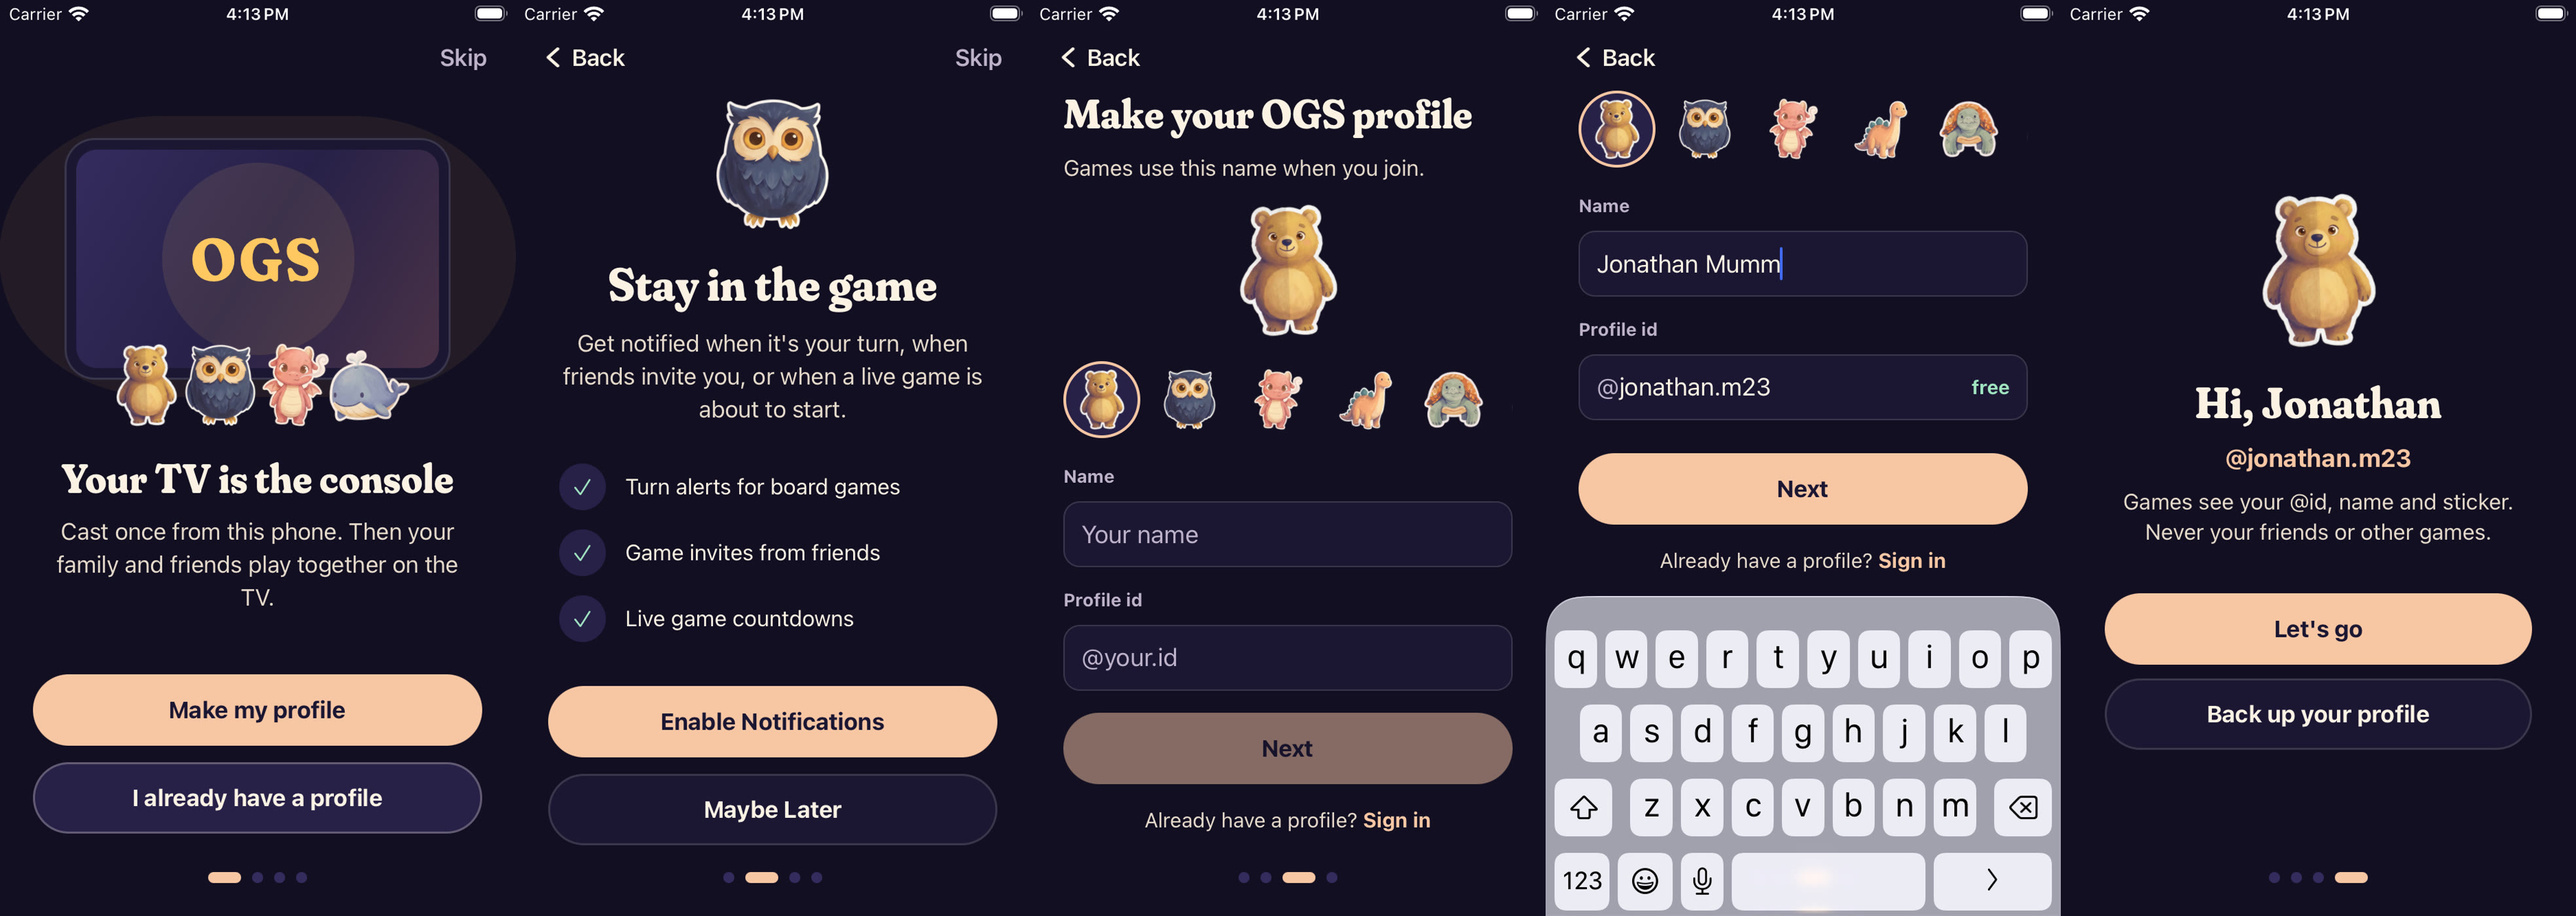
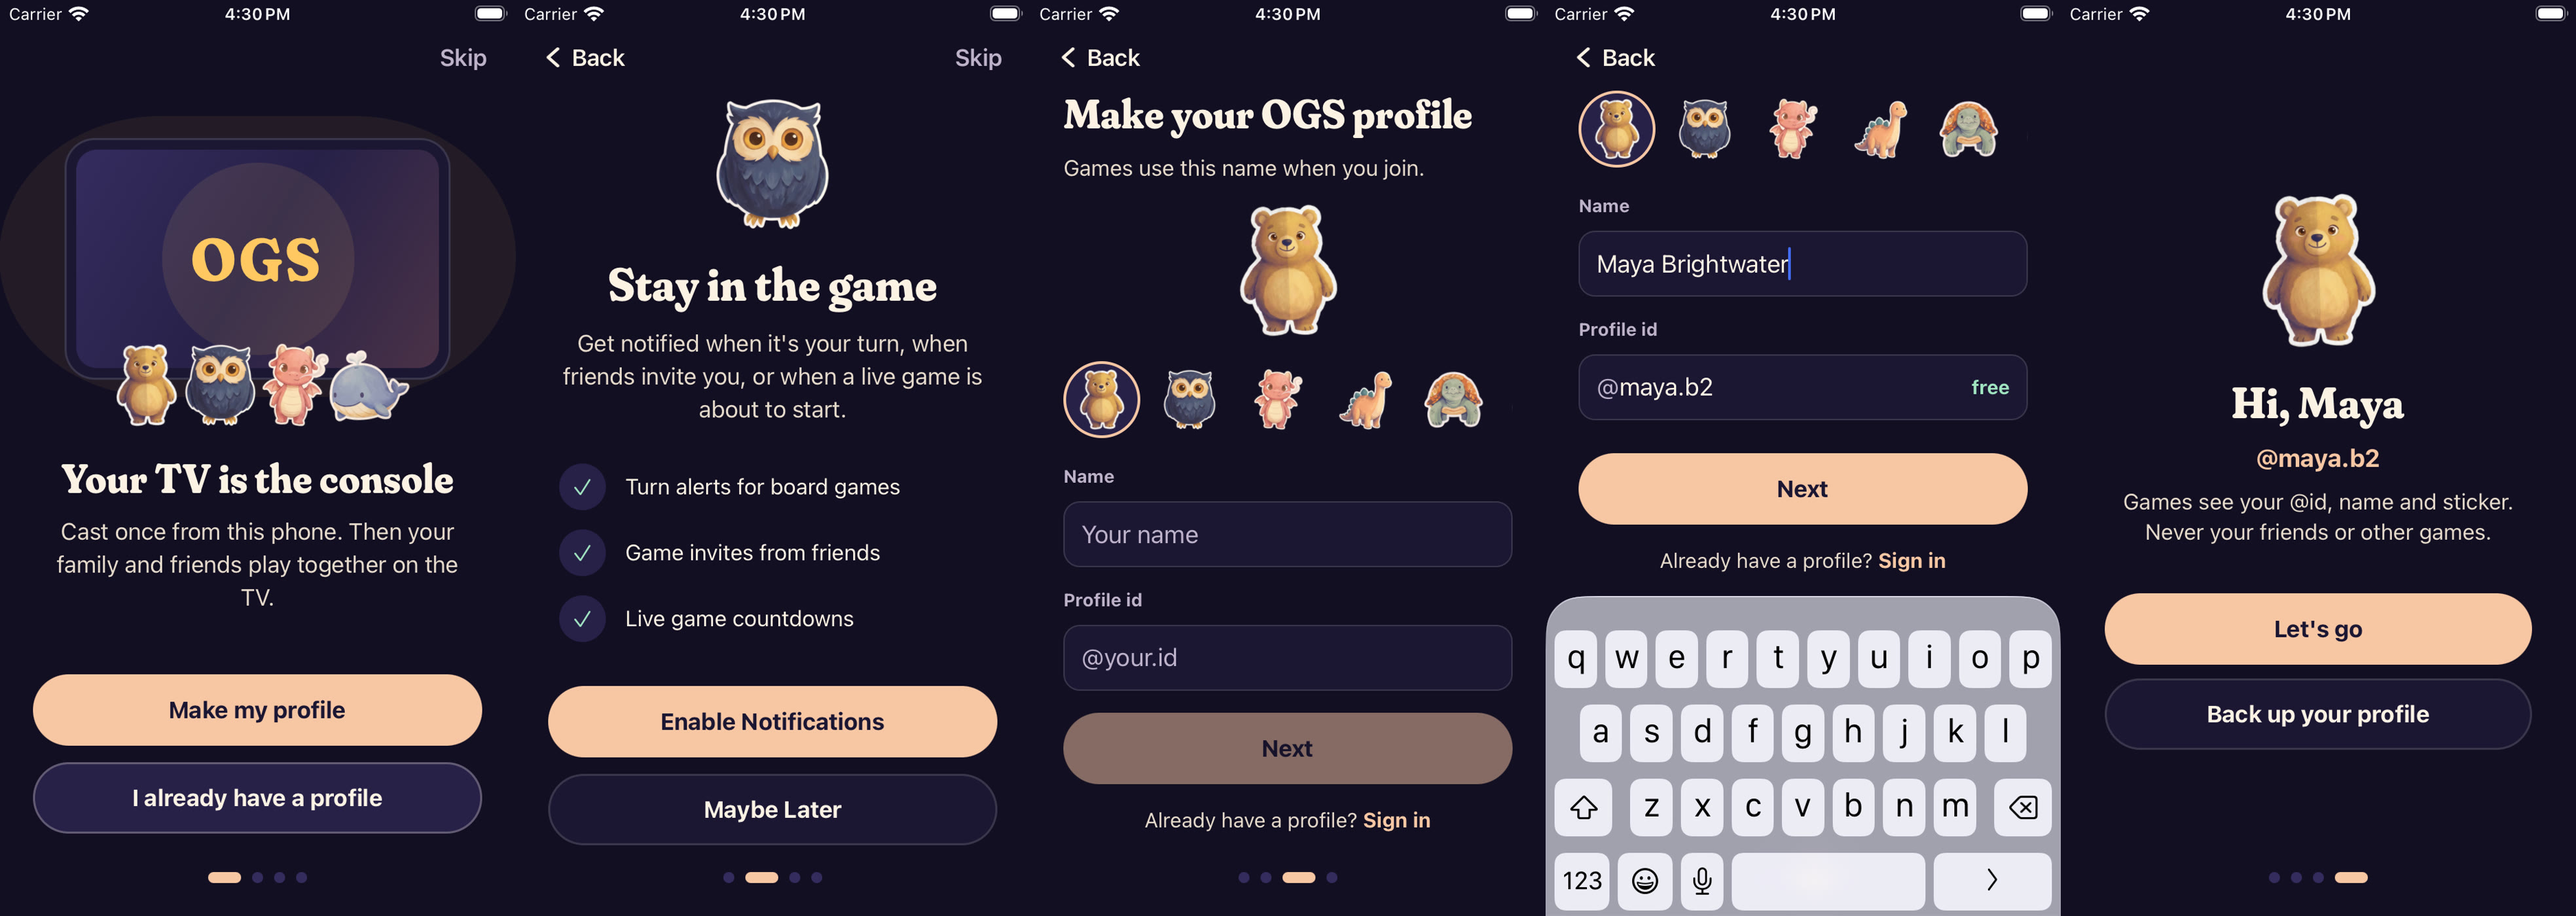
design(mobile): onboarding hill-climb round 01, the welcome shows a real game on the TV
A living-room TV playing real Library art (bundled webp, so it works before anything is
downloaded; games crossfade every few seconds, one still game under Reduce Motion), a
"Cast from your phone" chip, the family stickers on a couch, and the OGS wordmark top left.
Body copy shortened (no orphan line). Both blind judges preferred it over round 00.

diff --git a/apps/mobile/components/ogs/onboarding/TvHero.tsx b/apps/mobile/components/ogs/onboarding/TvHero.tsx
@@ -1,0 +1,164 @@
+import { LinearGradient } from "expo-linear-gradient";
+import { SymbolView } from "expo-symbols";
+import { useEffect, useRef, useState } from "react";
+import {
+  AccessibilityInfo,
+  Animated,
+  Image,
+  type ImageSourcePropType,
+  StyleSheet,
+  Text,
+  View,
+} from "react-native";
+import { Sticker } from "../Sticker";
+import { colors } from "../theme";
+
+/** Real games from the Library, bundled (the welcome shows before anything is downloaded). */
+const GAMES: { hero: ImageSourcePropType; logo: ImageSourcePropType }[] = [
+  {
+    hero: require("../../../assets/onboarding/rocket-crew-hero.webp"),
+    logo: require("../../../assets/onboarding/rocket-crew-logo.webp"),
+  },
+  {
+    hero: require("../../../assets/onboarding/story-nook-hero.webp"),
+    logo: require("../../../assets/onboarding/story-nook-logo.webp"),
+  },
+  {
+    hero: require("../../../assets/onboarding/bake-shop-hero.webp"),
+    logo: require("../../../assets/onboarding/bake-shop-logo.webp"),
+  },
+  {
+    hero: require("../../../assets/onboarding/peekaboo-garden-hero.webp"),
+    logo: require("../../../assets/onboarding/peekaboo-garden-logo.webp"),
+  },
+  {
+    hero: require("../../../assets/onboarding/night-flight-hero.webp"),
+    logo: require("../../../assets/onboarding/night-flight-logo.webp"),
+  },
+];
+
+/** The family on the couch in front of the TV (the launcher's couch: painted stickers). */
+const COUCH = ["bear", "owl", "dragon", "whale"] as const;
+
+const HOLD_MS = 3600;
+const FADE_MS = 700;
+
+/**
+ * The welcome's picture: a living-room TV playing a real game (games change every few seconds),
+ * cast from a phone, with the family on the couch in front. Reduced motion: one still game.
+ */
+export function TvHero({ compact }: { compact: boolean }) {
+  const [shown, setShown] = useState(0);
+  const fade = useRef(new Animated.Value(0)).current;
+
+  // Animations follow the system's reduce-motion setting (an external system: an effect syncs it).
+  useEffect(() => {
+    let timer: ReturnType<typeof setInterval> | null = null;
+    let cancelled = false;
+    void AccessibilityInfo.isReduceMotionEnabled().then((reduce) => {
+      if (cancelled) return;
+      if (reduce) {
+        fade.setValue(1);
+        return;
+      }
+      Animated.timing(fade, { toValue: 1, duration: FADE_MS, useNativeDriver: true }).start();
+      timer = setInterval(() => {
+        Animated.timing(fade, { toValue: 0, duration: FADE_MS / 2, useNativeDriver: true }).start(
+          () => {
+            setShown((i) => (i + 1) % GAMES.length);
+            Animated.timing(fade, { toValue: 1, duration: FADE_MS, useNativeDriver: true }).start();
+          },
+        );
+      }, HOLD_MS);
+    });
+    return () => {
+      cancelled = true;
+      if (timer) clearInterval(timer);
+    };
+  }, [fade]);
+
+  const game = GAMES[shown];
+  const sticker = compact ? 48 : 58;
+  return (
+    <View
+      style={styles.root}
+      accessible
+      accessibilityLabel="A game on the TV, the family on the couch"
+    >
+      <View style={styles.tv}>
+        <View style={styles.screen}>
+          <Animated.View style={[StyleSheet.absoluteFill, { opacity: fade }]}>
+            <Image source={game.hero} style={styles.art} resizeMode="cover" />
+            <LinearGradient
+              colors={["rgba(18,15,34,0)", "rgba(18,15,34,0.55)"]}
+              start={{ x: 0.5, y: 0.45 }}
+              end={{ x: 0.5, y: 1 }}
+              style={StyleSheet.absoluteFill}
+            />
+            <Image source={game.logo} style={styles.logo} resizeMode="contain" />
+          </Animated.View>
+        </View>
+        <View style={styles.castChip}>
+          <SymbolView
+            name="iphone.radiowaves.left.and.right"
+            size={13}
+            tintColor={colors.ink}
+            weight="semibold"
+          />
+          <Text style={styles.castText}>Cast from your phone</Text>
+        </View>
+      </View>
+      <View style={[styles.couch, { marginTop: 10 }]}>
+        <View style={styles.couchSeat} />
+        <View style={styles.sitters}>
+          {COUCH.map((id) => (
+            <Sticker key={id} id={id} size={sticker} />
+          ))}
+        </View>
+      </View>
+    </View>
+  );
+}
+
+const styles = StyleSheet.create({
+  root: { alignItems: "center", alignSelf: "stretch" },
+  tv: {
+    width: "100%",
+    maxWidth: 360,
+    aspectRatio: 16 / 9.6,
+    borderRadius: 14,
+    padding: 5,
+    backgroundColor: "#0b0916",
+    borderWidth: 1,
+    borderColor: colors.hair,
+  },
+  screen: { flex: 1, borderRadius: 9, overflow: "hidden", backgroundColor: colors.dusk1 },
+  art: { width: "100%", height: "100%" },
+  logo: { position: "absolute", left: "6%", bottom: "8%", width: "42%", height: "34%" },
+  castChip: {
+    position: "absolute",
+    top: 14,
+    right: 14,
+    flexDirection: "row",
+    alignItems: "center",
+    gap: 6,
+    paddingHorizontal: 10,
+    paddingVertical: 5,
+    borderRadius: 14,
+    backgroundColor: colors.lamp,
+  },
+  castText: { color: colors.ink, fontSize: 12, fontWeight: "800" },
+  couch: { width: "78%", alignItems: "center", justifyContent: "flex-end" },
+  couchSeat: {
+    position: "absolute",
+    left: 0,
+    right: 0,
+    bottom: 0,
+    height: "55%",
+    borderRadius: 18,
+    backgroundColor: colors.dusk2,
+    borderTopWidth: 1,
+    borderTopColor: colors.hair,
+  },
+  sitters: { flexDirection: "row", gap: 2, paddingBottom: 8 },
+});

diff --git a/apps/mobile/components/ogs/onboarding/WelcomeStep.tsx b/apps/mobile/components/ogs/onboarding/WelcomeStep.tsx
@@ -1,11 +1,7 @@
-import { LinearGradient } from "expo-linear-gradient";
 import { StyleSheet, Text, useWindowDimensions, View } from "react-native";
 import { Button } from "../Button";
-import { Sticker } from "../Sticker";
 import { colors, fonts } from "../theme";
-
-/** The family on the couch in front of the TV (painted stickers, never initials). */
-const COUCH = ["bear", "owl", "dragon", "whale"] as const;
+import { TvHero } from "./TvHero";
 
 /**
  * Onboarding's first page: what OGS is now (cast once, the TV is the console) and two equal paths,
@@ -23,33 +19,13 @@ export function WelcomeStep({
   return (
     <View style={styles.page} testID="onboardingWelcome">
       <View style={styles.middle}>
-        <View style={[styles.hero, small && styles.heroSmall]}>
-          <View style={styles.halo} />
-          <View style={styles.tv}>
-            <LinearGradient
-              colors={[colors.dusk3, colors.dusk2, "#4a3247"]}
-              start={{ x: 0, y: 0 }}
-              end={{ x: 1, y: 1 }}
-              style={styles.screen}
-            >
-              <View style={styles.glow} />
-              <Text style={styles.mark}>OGS</Text>
-            </LinearGradient>
-          </View>
-          <View style={styles.couch}>
-            {COUCH.map((id, i) => (
-              <View key={id} style={i === 0 ? null : styles.next}>
-                <Sticker id={id} size={60} />
-              </View>
-            ))}
-          </View>
-        </View>
-        <View style={styles.text}>
+        <TvHero compact={small} />
+        <View style={[styles.text, small && styles.textSmall]}>
           <Text style={[styles.heading, small && styles.headingSmall]} accessibilityRole="header">
             Your TV is the console
           </Text>
           <Text style={styles.body}>
-            Cast once from this phone. Then your family and friends play together on the TV.
+            Cast once from your phone. Then everyone plays together on the TV.
           </Text>
         </View>
       </View>
@@ -70,51 +46,8 @@ export function WelcomeStep({
 const styles = StyleSheet.create({
   page: { flex: 1, paddingHorizontal: 24, paddingBottom: 16 },
   middle: { flex: 1, justifyContent: "center" },
-  hero: { alignItems: "center", marginBottom: 28, paddingTop: 16 },
-  heroSmall: { marginBottom: 20 },
-  // The TV's warm light on the wall behind it (its own view: a shadow would be clipped).
-  halo: {
-    position: "absolute",
-    top: 0,
-    width: "100%",
-    aspectRatio: 1.6,
-    borderRadius: 999,
-    backgroundColor: "rgba(255, 200, 97, 0.07)",
-    transform: [{ scaleX: 1.15 }],
-  },
-  tv: {
-    width: "86%",
-    maxWidth: 340,
-    aspectRatio: 16 / 10,
-    borderRadius: 22,
-    padding: 7,
-    backgroundColor: colors.dusk1,
-    borderWidth: 1.5,
-    borderColor: colors.hair,
-  },
-  screen: {
-    flex: 1,
-    borderRadius: 15,
-    overflow: "hidden",
-    alignItems: "center",
-    justifyContent: "center",
-  },
-  glow: {
-    position: "absolute",
-    height: "88%",
-    aspectRatio: 1,
-    borderRadius: 999,
-    backgroundColor: "rgba(255, 200, 97, 0.10)",
-  },
-  mark: {
-    fontFamily: fonts.display,
-    fontSize: 44,
-    color: colors.lamp,
-    letterSpacing: 2,
-  },
-  couch: { flexDirection: "row", alignItems: "flex-end", marginTop: -26 },
-  next: { marginLeft: -6 },
-  text: { gap: 8 },
+  text: { gap: 8, marginTop: 28 },
+  textSmall: { marginTop: 18 },
   heading: {
     fontFamily: fonts.display,
     fontSize: 34,

diff --git a/apps/mobile/app/onboarding.tsx b/apps/mobile/app/onboarding.tsx
@@ -20,7 +20,7 @@ import { DoneStep } from "../components/ogs/onboarding/DoneStep";
 import { NotificationsStep } from "../components/ogs/onboarding/NotificationsStep";
 import { ProfileStep } from "../components/ogs/onboarding/ProfileStep";
 import { WelcomeStep } from "../components/ogs/onboarding/WelcomeStep";
-import { colors, TARGET } from "../components/ogs/theme";
+import { colors, fonts, TARGET } from "../components/ogs/theme";
 import { markOnboardingComplete } from "../services/onboarding";
 import {
   backFrom,
@@ -153,6 +153,10 @@ export default function OnboardingScreen() {
             <SymbolView name="chevron.left" size={17} weight="semibold" tintColor={colors.cream} />
             <Text style={styles.backText}>Back</Text>
           </Pressable>
+        ) : currentPage === 0 ? (
+          <Text style={styles.wordmark} accessibilityLabel="OGS">
+            OGS
+          </Text>
         ) : (
           <View style={styles.topButton} />
         )}
@@ -215,6 +219,13 @@ const styles = StyleSheet.create({
     paddingHorizontal: 8,
   },
   pressed: { opacity: 0.6 },
+  wordmark: {
+    fontFamily: fonts.display,
+    fontSize: 24,
+    color: colors.lamp,
+    letterSpacing: 1.5,
+    paddingHorizontal: 12,
+  },
   backText: { color: colors.cream, fontSize: 17, fontWeight: "600" },
   skip: { justifyContent: "flex-end" },
   skipText: { color: colors.cream3, fontSize: 17, fontWeight: "600" },
